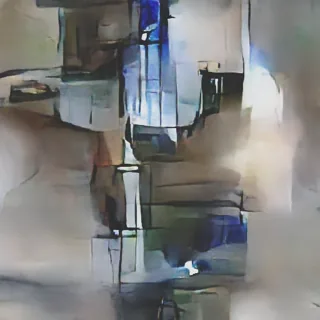
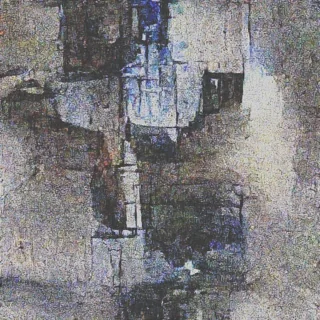
Retune the etched and grain-storm starters
Rendered on three sample models, neither did what its card said.
grain-storm's bottleneck noise moved pixels by about 3 levels in 255:
the decoder rebuilt over it. It now adds noise to the decoder from 20%
to 90% of the run, which breaks flat areas into grain while the
composition holds.

etched replaced late decoder activations with 60% Sobel edges, and
since edge strength has no sign that left only grey. It now mixes 8%
edges into the decoder over the whole run, which outlines shapes into
cell-like patches; past about 20% the picture washes out again.

Re-rendered their preset pictures.

diff --git a/app/core/craft/starters.py b/app/core/craft/starters.py
@@ -31,12 +31,13 @@ STARTERS: list[dict] = [
     },
     {
         "name": "starter-etched",
-        "notes": "Swaps late decoder activations for their own edges. Outlined, drawn, "
-                 "engraved-looking output. Held to the second half of the run because "
-                 "edges applied to early noise are just more noise.",
+        "notes": "Mixes a little of the decoder's own edges back into it. Shapes break into "
+                 "outlined, cell-like patches, like leaded glass or an etching. A little goes "
+                 "a long way: edge strength has no sign, so past about 0.2 the picture "
+                 "washes out to grey (measured on three sample models; 0.6 left only grey).",
         "bends": [{
-            "op": "gradient", "params": {"mix": 0.6},
-            "targets": ["decoder"], "step_start": 0.4, "step_end": 1.0, "active": True,
+            "op": "gradient", "params": {"mix": 0.08},
+            "targets": ["decoder"], "step_start": 0.0, "step_end": 1.0, "active": True,
         }],
     },
     {
@@ -53,12 +54,13 @@ STARTERS: list[dict] = [
     },
     {
         "name": "starter-grain-storm",
-        "notes": "Injects noise at the bottleneck, mid-run only. Flat areas break up "
-                 "into texture while edges mostly survive. Ends before the last steps "
-                 "so the model still gets to resolve what the noise suggested.",
+        "notes": "Injects noise into the decoder for most of the run. Flat areas break up "
+                 "into grain while the composition holds. Ends before the last steps so "
+                 "the model still resolves some of what the noise suggested. In the "
+                 "bottleneck the same noise barely showed: the decoder rebuilt over it.",
         "bends": [{
-            "op": "noise", "params": {"std": 0.25, "seed": 0},
-            "targets": ["mid"], "step_start": 0.15, "step_end": 0.7, "active": True,
+            "op": "noise", "params": {"std": 0.3, "seed": 0},
+            "targets": ["decoder"], "step_start": 0.2, "step_end": 0.9, "active": True,
         }],
     },
     {
